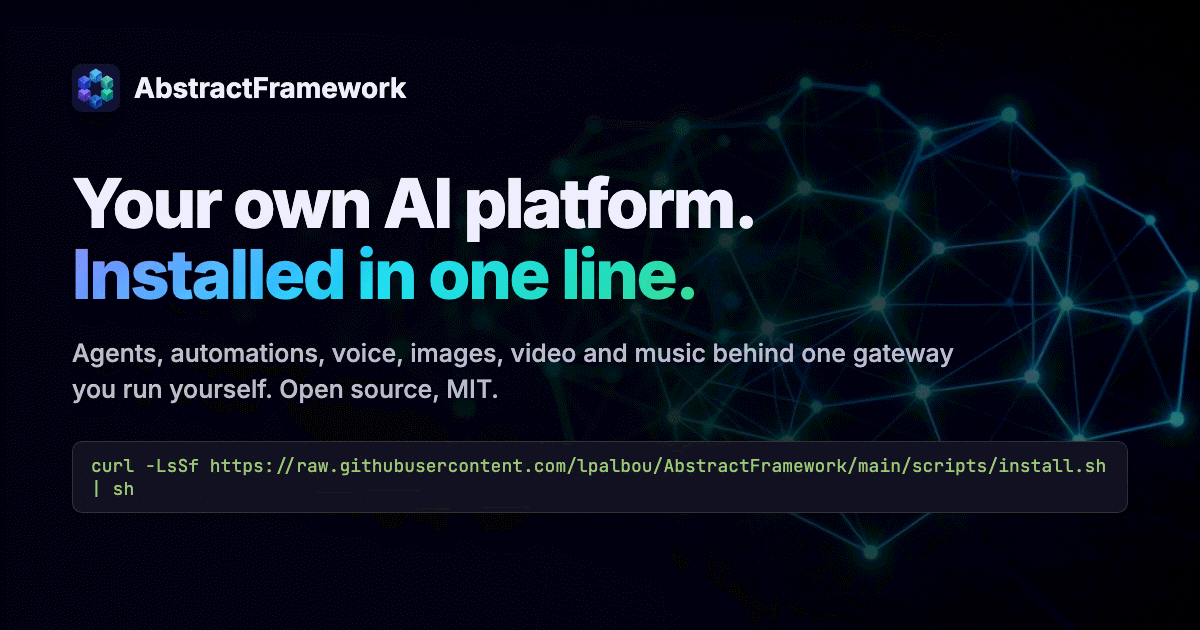
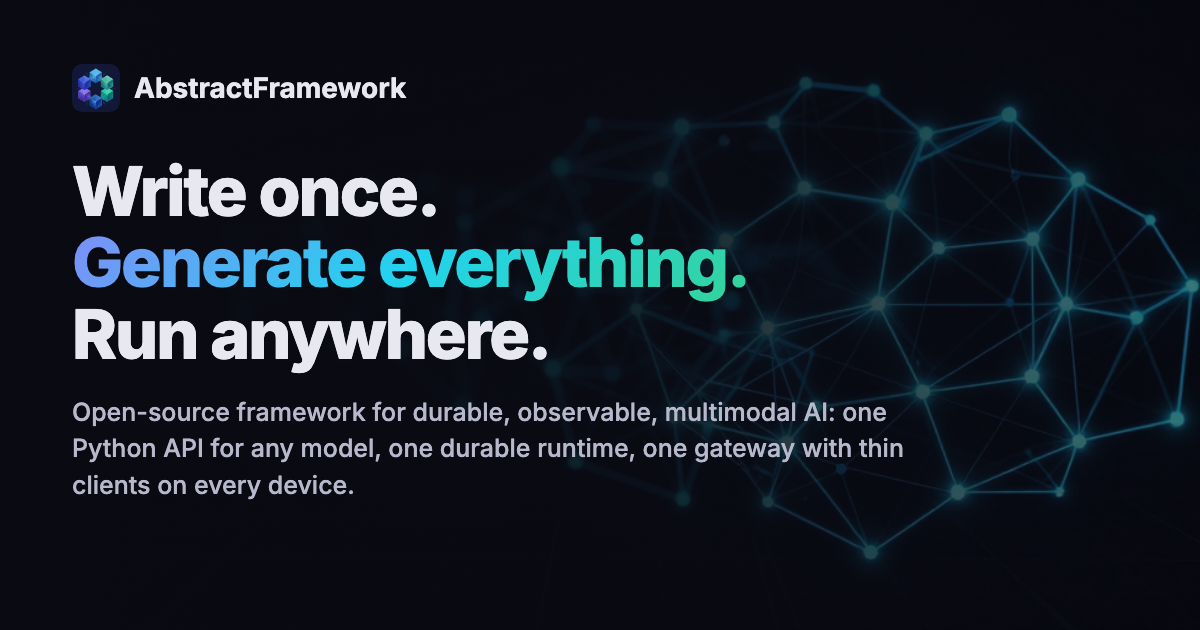
site: cube list with every real package, reduced-motion guards, og card with the chosen tagline, CSS for the runtime diagram and continuity frames

Changed region(s): [[0.0617, 0.2413, 0.925, 0.8143], [0.6167, 0.7841, 0.6475, 0.8143], [0.555, 0.7841, 0.5858, 0.8143]]

diff --git a/assets/js/main.js b/assets/js/main.js
@@ -1,4 +1,5 @@
 document.addEventListener('DOMContentLoaded', () => {
+  const reduceMotion = window.matchMedia && window.matchMedia('(prefers-reduced-motion: reduce)').matches;
 
   /* ── Nav scroll effect ── */
   const nav = document.querySelector('.nav');
@@ -54,6 +55,7 @@ document.addEventListener('DOMContentLoaded', () => {
         const el = entry.target;
         const target = el.dataset.count;
         if (!target) return;
+        if (reduceMotion) { el.textContent = target; counterObserver.unobserve(el); return; }
         const isPercent = target.includes('%');
         const num = parseInt(target);
         const suffix = target.replace(/[\d]/g, '');
@@ -202,11 +204,12 @@ document.addEventListener('DOMContentLoaded', () => {
     }
     prevBtn.addEventListener('click', () => goTo(current - 1));
     nextBtn.addEventListener('click', () => goTo(current + 1));
-    let autoplay = setInterval(() => goTo(current + 1), 6000);
+    let autoplay = reduceMotion ? null : setInterval(() => goTo(current + 1), 6000);
     carousel.addEventListener('mouseenter', () => clearInterval(autoplay));
     carousel.addEventListener('mouseleave', () => {
-      autoplay = setInterval(() => goTo(current + 1), 6000);
+      if (!reduceMotion) autoplay = setInterval(() => goTo(current + 1), 6000);
     });
+    carousel.addEventListener('focusin', () => clearInterval(autoplay));
     let startX = 0;
     carousel.addEventListener('touchstart', e => { startX = e.touches[0].clientX; }, { passive: true });
     carousel.addEventListener('touchend', e => {
@@ -217,7 +220,7 @@ document.addEventListener('DOMContentLoaded', () => {
 
   /* ── Parallax on hero bg ── */
   const heroBg = document.querySelector('.hero-bg-img');
-  if (heroBg) {
+  if (heroBg && !reduceMotion) {
     window.addEventListener('scroll', () => {
       const y = window.scrollY;
       if (y < window.innerHeight) {
@@ -231,22 +234,26 @@ document.addEventListener('DOMContentLoaded', () => {
   if (cubeGrid) {
     const CUBE_SIZE = 48, COL_STEP = 90, ROW_STEP = 110;
     const cubesData = [
-      { id:'code',      layer:'app',        col:-2.5, row:0, label:'Code',      name:'AbstractCode',      layerName:'Application',       href:'code.html',      desc:'A coding agent that runs durably on the gateway, with a terminal client and a browser client. Tool approvals, workspace files, streamed replies and automations.' },
-      { id:'flow',      layer:'app',        col:-1.5, row:0, label:'Flow',      name:'AbstractFlow',      layerName:'Application',       href:'flow.html',      desc:'The visual workflow editor. Draw workflows in the browser, publish them to the gateway as portable .flow bundles.' },
-      { id:'observer',  layer:'app',        col:-0.5, row:0, label:'Observer',  name:'AbstractObserver',  layerName:'Application',       href:'observer.html',  desc:'Watch runs live, replay the ledger step by step, and create and manage automations.' },
-      { id:'assistant', layer:'app',        col:0.5,  row:0, label:'Assistant', name:'AbstractAssistant', layerName:'Application',       href:'assistant.html', desc:'A macOS menu-bar assistant with a palette, a voice mode, and your sessions and automations one key away.' },
-      { id:'continuum', layer:'app',        col:1.5,  row:0, label:'Continuum', name:'AbstractContinuum', layerName:'Application',       href:'continuum.html', desc:'A board-first console for continuous development and deployment work.' },
-      { id:'entity',    layer:'app',        col:2.5,  row:0, label:'Entity',    name:'AbstractEntity',    layerName:'Application',       href:'entity.html',    desc:'Create entities with a lasting memory of their own, talk with them, and read their diaries.' },
-      { id:'gateway',   layer:'control',    col:0,    row:1, label:'Gateway',   name:'AbstractGateway',   layerName:'Control Plane',     href:'gateway.html',   desc:'The control plane: durable runs over HTTP and SSE, automations, the web and terminal consoles, the apps at /apps/<app>/, and multi-user auth.' },
-      { id:'agent',     layer:'compose',    col:-0.5, row:2, label:'Agent',     name:'AbstractAgent',     layerName:'Composition',       href:'agent.html',     desc:'Agent patterns (ReAct, CodeAct, MemAct) built on AbstractRuntime and AbstractCore.' },
-      { id:'flowrt',    layer:'compose',    col:0.5,  row:2, label:'Bundles',   name:'Workflow bundles',  layerName:'Composition',       href:'flow.html',      desc:'Portable .flow bundles, compiled and run durably by AbstractRuntime on the gateway.' },
-      { id:'core',      layer:'foundation', col:-0.5, row:3, label:'Core',      name:'AbstractCore',      layerName:'Foundation',        href:'core.html',      desc:'One Python LLM API over ten provider types, local and cloud: tools, structured output, media, embeddings, an OpenAI-compatible server and a console.' },
-      { id:'runtime',   layer:'foundation', col:0.5,  row:3, label:'Runtime',   name:'AbstractRuntime',   layerName:'Foundation',        href:'runtime.html',   desc:'Durable execution: interrupt, checkpoint, resume, with an append-only ledger. Runs automations and keeps a whole-message history window.' },
-      { id:'voice',     layer:'plugin',     col:-1,   row:4, label:'Voice',     name:'AbstractVoice',     layerName:'Capability Plugin', href:'voice.html',     desc:'Text-to-speech, speech-to-text and voice cloning, local or remote, with engines that say why they cannot run.' },
-      { id:'vision',    layer:'plugin',     col:0,    row:4, label:'Vision',    name:'AbstractVision',    layerName:'Capability Plugin', href:'vision.html',    desc:'Image generation, editing and upscaling, text-to-video and image-to-video, through MLX-Gen, Diffusers, stable-diffusion.cpp or OpenAI-compatible services.' },
-      { id:'music',     layer:'plugin',     col:1,    row:4, label:'Music',     name:'AbstractMusic',     layerName:'Capability Plugin', href:'music.html',     desc:'Text-to-music and text-to-audio: ACE Music and ElevenLabs remotely, ACE-Step and Stable Audio locally.' },
-      { id:'memory',    layer:'knowledge',  col:-0.5, row:5, label:'Memory',    name:'AbstractMemory',    layerName:'Knowledge',         href:'memory.html',    desc:'Durable, append-only agent memory: temporal triples, and a memory system that forms, recalls and consolidates records from use.' },
-      { id:'semantics', layer:'knowledge',  col:0.5,  row:5, label:'Semantics', name:'AbstractSemantics', layerName:'Knowledge',         href:'semantics.html', desc:'The shared vocabulary: predicates, entity types and memory relations, with JSON Schema helpers.' },
+      { id:'code',      layer:'app',        col:-3, row:0, label:'Code',      name:'AbstractCode',      layerName:'Application',       href:'code.html',      desc:'A coding agent that runs durably on the gateway, with a terminal client and a browser client: tool approvals, workspace files, streamed replies and automations.' },
+      { id:'flow',      layer:'app',        col:-2, row:0, label:'Flow',      name:'AbstractFlow',      layerName:'Application',       href:'flow.html',      desc:'The visual workflow editor. Draw workflows in the browser and publish them to the gateway as portable .flow bundles.' },
+      { id:'observer',  layer:'app',        col:-1, row:0, label:'Observer',  name:'AbstractObserver',  layerName:'Application',       href:'observer.html',  desc:'Watch runs live, replay the ledger step by step, and create and manage automations.' },
+      { id:'assistant', layer:'app',        col:0,  row:0, label:'Assistant', name:'AbstractAssistant', layerName:'Application',       href:'assistant.html', desc:'A macOS menu-bar assistant with a palette, a voice mode, and your gateway sessions and automations one key away.' },
+      { id:'continuum', layer:'app',        col:1,  row:0, label:'Continuum', name:'AbstractContinuum', layerName:'Application',       href:'continuum.html', desc:'A board-first console for continuous development and deployment work.' },
+      { id:'entity',    layer:'app',        col:2,  row:0, label:'Entity',    name:'AbstractEntity',    layerName:'Application',       href:'entity.html',    desc:'Create entities with a lasting memory of their own, talk with them, and read their diaries.' },
+      { id:'consoles',  layer:'app',        col:3,  row:0, label:'Consoles',  name:'Web and terminal consoles', layerName:'Application', href:'console.html', desc:'The gateway web console and abstractgateway-console in a terminal: setup, models, engines, network, users and apps. abstractcore-console does the same for AbstractCore alone.' },
+      { id:'gateway',   layer:'control',    col:0,  row:1, label:'Gateway',   name:'AbstractGateway',   layerName:'Control Plane',     href:'gateway.html',   desc:'The controller: starts, resumes and cancels durable runs over HTTP and SSE, runs automations, manages users and network access, and serves the consoles and apps.' },
+      { id:'agent',     layer:'compose',    col:-1, row:2, label:'Agent',     name:'AbstractAgent',     layerName:'Composition',       href:'agent.html',     desc:'Agent patterns (ReAct, CodeAct, MemAct) built on AbstractRuntime and AbstractCore.' },
+      { id:'skill',     layer:'compose',    col:0,  row:2, label:'Skill',     name:'AbstractSkill',     layerName:'Composition',       href:'https://github.com/lpalbou/AbstractSkill', desc:'Agent Skills (SKILL.md): parsing, validation, the curated skill shelf and the trust gate the gateway applies before a skill reaches a run.' },
+      { id:'uikit',     layer:'compose',    col:1,  row:2, label:'UI kit',    name:'AbstractUIC',       layerName:'Composition',       href:'https://github.com/lpalbou/AbstractUIC', desc:'Reusable UI packages for the clients: React components, web components and a gateway session proxy (npm @abstractframework/ui-kit).' },
+      { id:'core',      layer:'foundation', col:-0.5, row:3, label:'Core',    name:'AbstractCore',      layerName:'Foundation',        href:'core.html',      desc:'One Python LLM API over ten provider types, local and cloud: tools, structured output, media, embeddings, capability plugins and an OpenAI-compatible server.' },
+      { id:'runtime',   layer:'foundation', col:0.5,  row:3, label:'Runtime', name:'AbstractRuntime',   layerName:'Foundation',        href:'runtime.html',   desc:'Where agentic operations run: durable runs, effects and waits, checkpoint and resume, with an append-only ledger.' },
+      { id:'voice',     layer:'plugin',     col:-2, row:4, label:'Voice',     name:'AbstractVoice',     layerName:'Capability Plugin', href:'voice.html',     desc:'Text-to-speech, speech-to-text and voice cloning, local or remote.' },
+      { id:'vision',    layer:'plugin',     col:-1, row:4, label:'Vision',    name:'AbstractVision',    layerName:'Capability Plugin', href:'vision.html',    desc:'Image generation, editing and upscaling, text-to-video and image-to-video, through MLX-Gen, Diffusers, stable-diffusion.cpp or OpenAI-compatible services.' },
+      { id:'music',     layer:'plugin',     col:0,  row:4, label:'Music',     name:'AbstractMusic',     layerName:'Capability Plugin', href:'music.html',     desc:'Text-to-music and text-to-audio: ACE Music and ElevenLabs remotely, ACE-Step and Stable Audio locally.' },
+      { id:'scene3d',   layer:'plugin',     col:1,  row:4, label:'3D',        name:'abstract3d',        layerName:'Capability Plugin', href:'3d.html',        desc:'Image-to-3D and text-to-3D with a validated local TripoSR backend and GLB output.' },
+      { id:'camera',    layer:'plugin',     col:2,  row:4, label:'Camera',    name:'AbstractCamera',    layerName:'Capability Plugin', href:'camera.html',    desc:'Camera control: tethered bodies, webcams and smart telescopes behind one manager, with camera tools for agents.' },
+      { id:'memory',    layer:'knowledge',  col:-0.5, row:5, label:'Memory',  name:'AbstractMemory',    layerName:'Knowledge',         href:'memory.html',    desc:'Durable, append-only agent memory: temporal triples, and a memory system that forms, recalls and consolidates records from use.' },
+      { id:'semantics', layer:'knowledge',  col:0.5,  row:5, label:'Semantics', name:'AbstractSemantics', layerName:'Knowledge',       href:'semantics.html', desc:'The shared vocabulary: predicates, entity types and memory relations, with JSON Schema helpers.' },
     ];
     const layerColors = { app:'#34d399', control:'#22d3ee', compose:'#818cf8', foundation:'#6366f1', plugin:'#f472b6', knowledge:'#fbbf24' };
 
@@ -281,7 +288,7 @@ document.addEventListener('DOMContentLoaded', () => {
       var el = document.createElement('div');
       el.className = 'layer-label';
       el.dataset.layer = ['app','control','compose','foundation','plugin','knowledge'][l.row];
-      el.style.cssText = 'left:'+(3.3*COL_STEP)+'px;top:'+(l.row*ROW_STEP+14)+'px;color:'+l.color;
+      el.style.cssText = 'left:'+(3.9*COL_STEP)+'px;top:'+(l.row*ROW_STEP+14)+'px;color:'+l.color;
       el.textContent = l.text;
       cubeGrid.appendChild(el);
     });

diff --git a/assets/css/main.css b/assets/css/main.css
@@ -3738,8 +3738,8 @@ button:focus-visible,
   .tab-nav { padding-left: 4.4rem; }
 }
 
-/* Cubes: six apps in the top row; the layer table replaces them on phones */
-.iso-grid { width: calc(6 * 90px); }
+/* Cubes: seven apps in the top row; the layer table replaces them on phones */
+.iso-grid { width: calc(7 * 90px); }
 @media (max-width: 760px) { .cubes-container { display: none; } }
 
 /* Grid children must be allowed to shrink below their content width */
@@ -3769,3 +3769,94 @@ button:focus-visible,
 .recs-why summary:hover { color: var(--text-secondary); }
 .recs-why small { display: block; color: var(--text-muted); margin-top: .3rem; line-height: 1.5; }
 .recs-table td { vertical-align: top; }
+
+/* ═══════════════════════════════════════════════════════════════════════════
+   SITE RETHINK 2026-09-29 — layer table on phones, "where it fits", runtime
+   diagram, continuity frames, multimodal artifacts, reserved footnote
+   ═══════════════════════════════════════════════════════════════════════════ */
+
+/* The cube diagram needs width; phones get the layer table instead */
+.layer-table { display: none; }
+@media (max-width: 760px) { .layer-table { display: block; margin-top: var(--space-lg); } }
+.reserved-note { color: var(--text-muted); font-size: .82rem; text-align: center; margin-top: var(--space-lg); line-height: 1.6; }
+.reserved-note code { font-size: .78rem; }
+
+/* Where it fits: three layers */
+.fit-layers { display: grid; grid-template-columns: repeat(3, 1fr); gap: var(--space-lg); }
+.fit-layer { position: relative; background: var(--bg-card); border: 1px solid var(--border); border-radius: var(--radius-lg); padding: 1.5rem; }
+.fit-layer .fit-num { font-family: var(--mono); font-size: .72rem; letter-spacing: .12em; text-transform: uppercase; }
+.fit-layer h3 { font-size: 1.1rem; margin: .4rem 0 .5rem; }
+.fit-layer p { color: var(--text-secondary); font-size: var(--text-sm); line-height: 1.65; }
+.fit-layer .fit-pkgs { margin-top: .8rem; display: flex; flex-wrap: wrap; gap: .35rem; }
+.fit-layer.l1 .fit-num { color: var(--primary-light); }
+.fit-layer.l2 .fit-num { color: var(--accent-light); }
+.fit-layer.l3 .fit-num { color: var(--green-light); }
+.fit-compare { margin-top: var(--space-xl); }
+@media (max-width: 900px) { .fit-layers { grid-template-columns: 1fr; } }
+
+/* Runtime / gateway / thin-clients diagram (inline SVG, CSS keyframes) */
+.arch-flow { margin-top: var(--space-2xl); display: grid; grid-template-columns: minmax(0, 3fr) minmax(0, 2fr); gap: var(--space-xl); align-items: center; }
+.arch-flow svg { width: 100%; height: auto; display: block; }
+.arch-flow .af-box { fill: rgba(18, 18, 30, .92); stroke-width: 1.5; }
+.arch-flow .af-title { font: 700 15px var(--font, Inter, sans-serif); fill: var(--text); }
+.arch-flow .af-sub { font: 400 11.5px var(--font, Inter, sans-serif); fill: var(--text-secondary); }
+.arch-flow .af-tag { font: 600 10px var(--mono, monospace); letter-spacing: .08em; }
+.arch-flow .af-line { fill: none; stroke-width: 2; stroke-dasharray: 5 9; }
+.arch-flow .af-down { animation: af-flow 1.6s linear infinite; }
+.arch-flow .af-up { animation: af-flow-up 1.6s linear infinite; }
+.arch-flow .af-ledger rect { animation: af-append 4.8s ease-in-out infinite; opacity: .25; }
+.arch-flow .af-ledger rect:nth-child(2) { animation-delay: .8s; }
+.arch-flow .af-ledger rect:nth-child(3) { animation-delay: 1.6s; }
+.arch-flow .af-ledger rect:nth-child(4) { animation-delay: 2.4s; }
+.arch-flow .af-ledger rect:nth-child(5) { animation-delay: 3.2s; }
+@keyframes af-flow { to { stroke-dashoffset: -28; } }
+@keyframes af-flow-up { to { stroke-dashoffset: 28; } }
+@keyframes af-append { 0%, 100% { opacity: .25; } 15%, 45% { opacity: 1; } }
+.arch-legend { display: grid; gap: .9rem; }
+.arch-legend div { background: var(--bg-card); border: 1px solid var(--border); border-radius: var(--radius); padding: 1rem 1.1rem; }
+.arch-legend h4 { font-size: .95rem; margin-bottom: .25rem; }
+.arch-legend p { color: var(--text-secondary); font-size: var(--text-sm); line-height: 1.6; }
+.arch-legend .k-rt { border-left: 3px solid #6366f1; }
+.arch-legend .k-gw { border-left: 3px solid #06b6d4; }
+.arch-legend .k-cl { border-left: 3px solid #10b981; }
+@media (max-width: 900px) { .arch-flow { grid-template-columns: 1fr; } }
+
+/* Continuity: the same run in three device frames */
+.devices { display: grid; grid-template-columns: 1.3fr .7fr 1.3fr; gap: var(--space-lg); align-items: end; margin-top: var(--space-xl); }
+.device { background: var(--bg-card-solid, #12121e); border: 1px solid var(--border); border-radius: 14px; overflow: hidden; box-shadow: var(--shadow-lg); }
+.device.phone { border-radius: 26px; padding-top: .4rem; }
+.device .d-bar { display: flex; align-items: center; gap: .4rem; padding: .55rem .8rem; border-bottom: 1px solid var(--border); font-size: .72rem; color: var(--text-muted); font-family: var(--mono); }
+.device .d-bar i { width: 8px; height: 8px; border-radius: 50%; background: rgba(255,255,255,.14); display: inline-block; }
+.device .d-body { padding: .9rem; display: grid; gap: .55rem; min-height: 12.5rem; align-content: start; font-size: .8rem; line-height: 1.5; }
+.device.term .d-body { font-family: var(--mono); font-size: .72rem; background: #0d0d16; }
+.device .msg { padding: .45rem .7rem; border-radius: 10px; max-width: 92%; }
+.device .msg.u { justify-self: end; background: rgba(99,102,241,.22); color: var(--text); }
+.device .msg.a { background: rgba(255,255,255,.05); color: var(--text-secondary); }
+.device.term .msg { border-radius: 0; padding: 0; background: none; max-width: 100%; justify-self: start; }
+.device.term .msg.u { color: #a5b4fc; }
+.device.term .msg.u::before { content: '> '; color: var(--text-muted); }
+.device .d-caption { padding: .6rem .8rem .8rem; font-size: .75rem; color: var(--text-muted); border-top: 1px solid var(--border); }
+.device .d-caption strong { color: var(--text); font-weight: 600; }
+.devices .m1, .devices .m2, .devices .m3, .devices .m4 { opacity: 0; animation: dev-show 12s ease-out infinite; }
+.devices .m2 { animation-delay: 2.5s; }
+.devices .m3 { animation-delay: 5s; }
+.devices .m4 { animation-delay: 7.5s; }
+@keyframes dev-show { 0% { opacity: 0; transform: translateY(6px); } 4%, 90% { opacity: 1; transform: none; } 100% { opacity: 0; } }
+@media (max-width: 900px) { .devices { grid-template-columns: 1fr; } .device .d-body { min-height: 0; } }
+
+/* Multimodal artifacts next to the code */
+.mm-artifacts { display: grid; grid-template-columns: repeat(3, 1fr); gap: var(--space-lg); margin-top: var(--space-xl); }
+.mm-artifact { background: var(--bg-card); border: 1px solid var(--border); border-radius: var(--radius-lg); overflow: hidden; display: flex; flex-direction: column; }
+.mm-artifact img { aspect-ratio: 16 / 10; object-fit: cover; width: 100%; cursor: zoom-in; }
+.mm-artifact .a-body { padding: 1rem 1.1rem 1.2rem; display: grid; gap: .45rem; }
+.mm-artifact .a-kind { font-family: var(--mono); font-size: .7rem; letter-spacing: .1em; text-transform: uppercase; color: var(--pink-light); }
+.mm-artifact p { color: var(--text-secondary); font-size: .82rem; line-height: 1.55; }
+.mm-artifact audio { width: 100%; }
+.mm-artifact .a-audio { aspect-ratio: 16 / 10; display: grid; place-items: center; background: radial-gradient(circle at 50% 40%, rgba(236,72,153,.18), transparent 70%), var(--bg-code); font-size: 2.4rem; color: var(--pink-light); }
+@media (max-width: 900px) { .mm-artifacts { grid-template-columns: 1fr; } }
+.defaults-note { max-width: 860px; margin: 0 auto var(--space-lg); }
+
+@media (prefers-reduced-motion: reduce) {
+  .arch-flow .af-down, .arch-flow .af-up, .arch-flow .af-ledger rect { animation: none; opacity: 1; }
+  .devices .m1, .devices .m2, .devices .m3, .devices .m4 { animation: none; opacity: 1; }
+}
